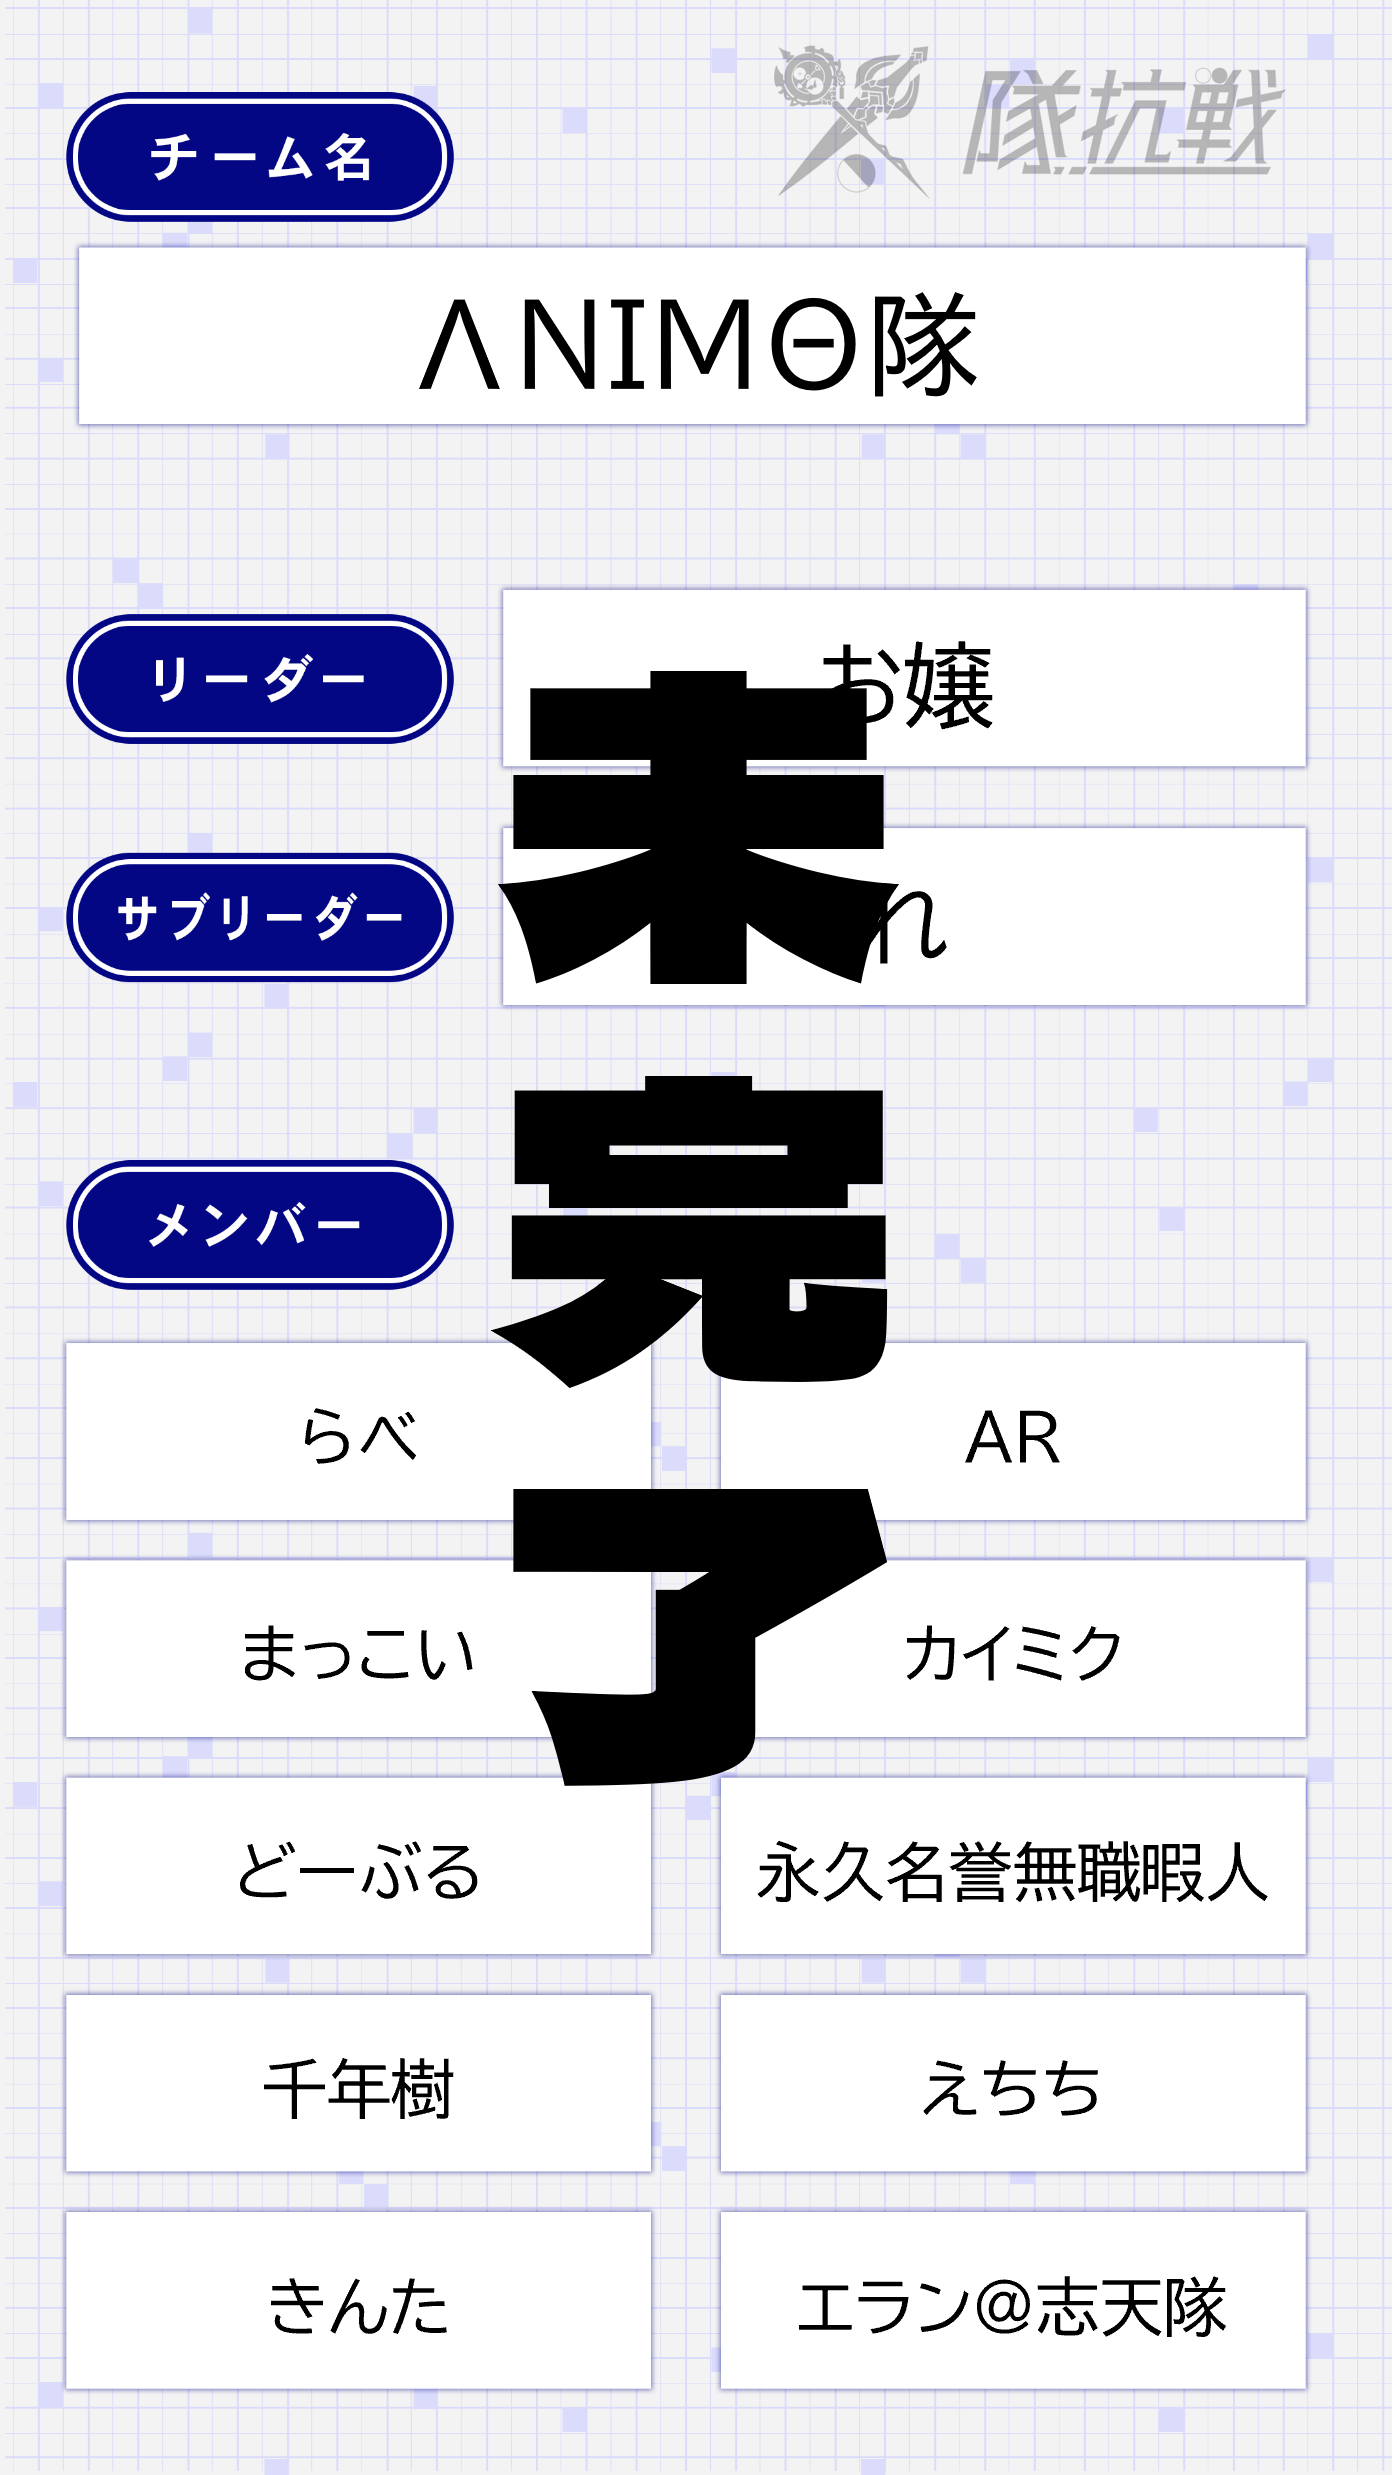
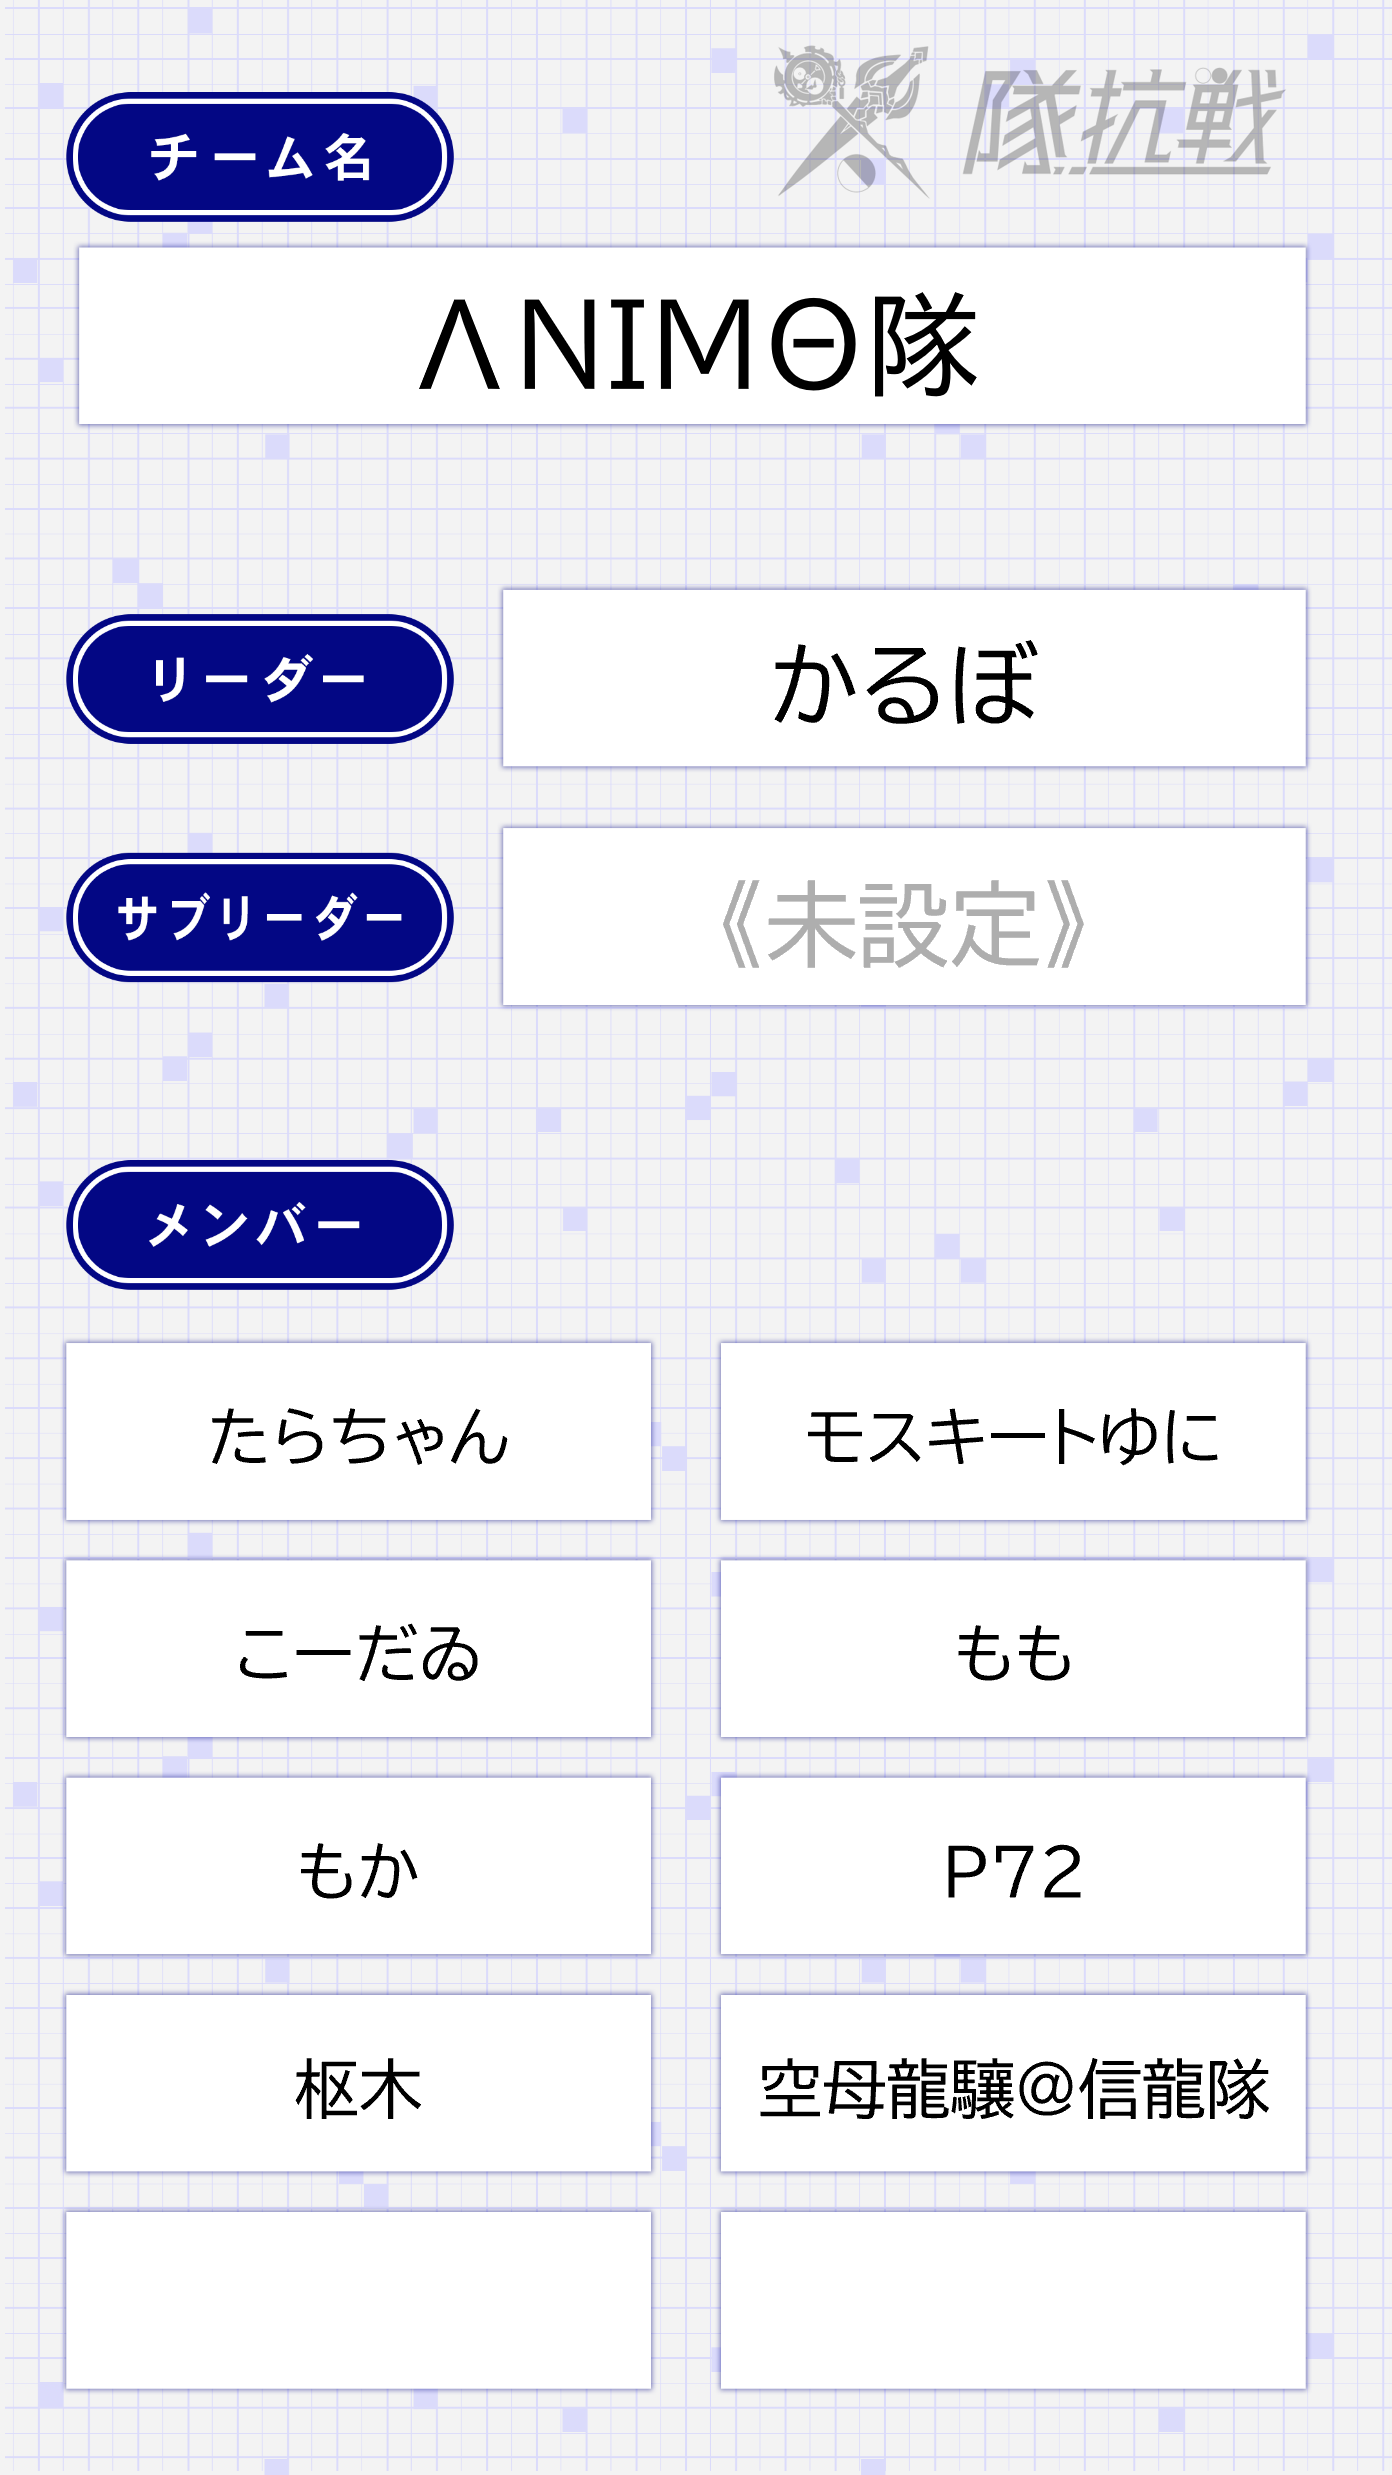
feat: 頻脈隊のリーダー名を更新

diff --git a/src/js/participating-teams-data.js b/src/js/participating-teams-data.js
@@ -64,7 +64,7 @@ window.participatingTeams = [
   },
   {
     team_name: "頻脈隊",
-    leader_name: "≪未送信≫",
+    leader_name: "乃ノ亜@頻脈隊",
     subleader_name: "るちぇ@頻脈隊",
     thumbnail: "./images/teamLists/thumbnails/頻脈隊.png",
     image: "./images/teamLists/頻脈隊.png",